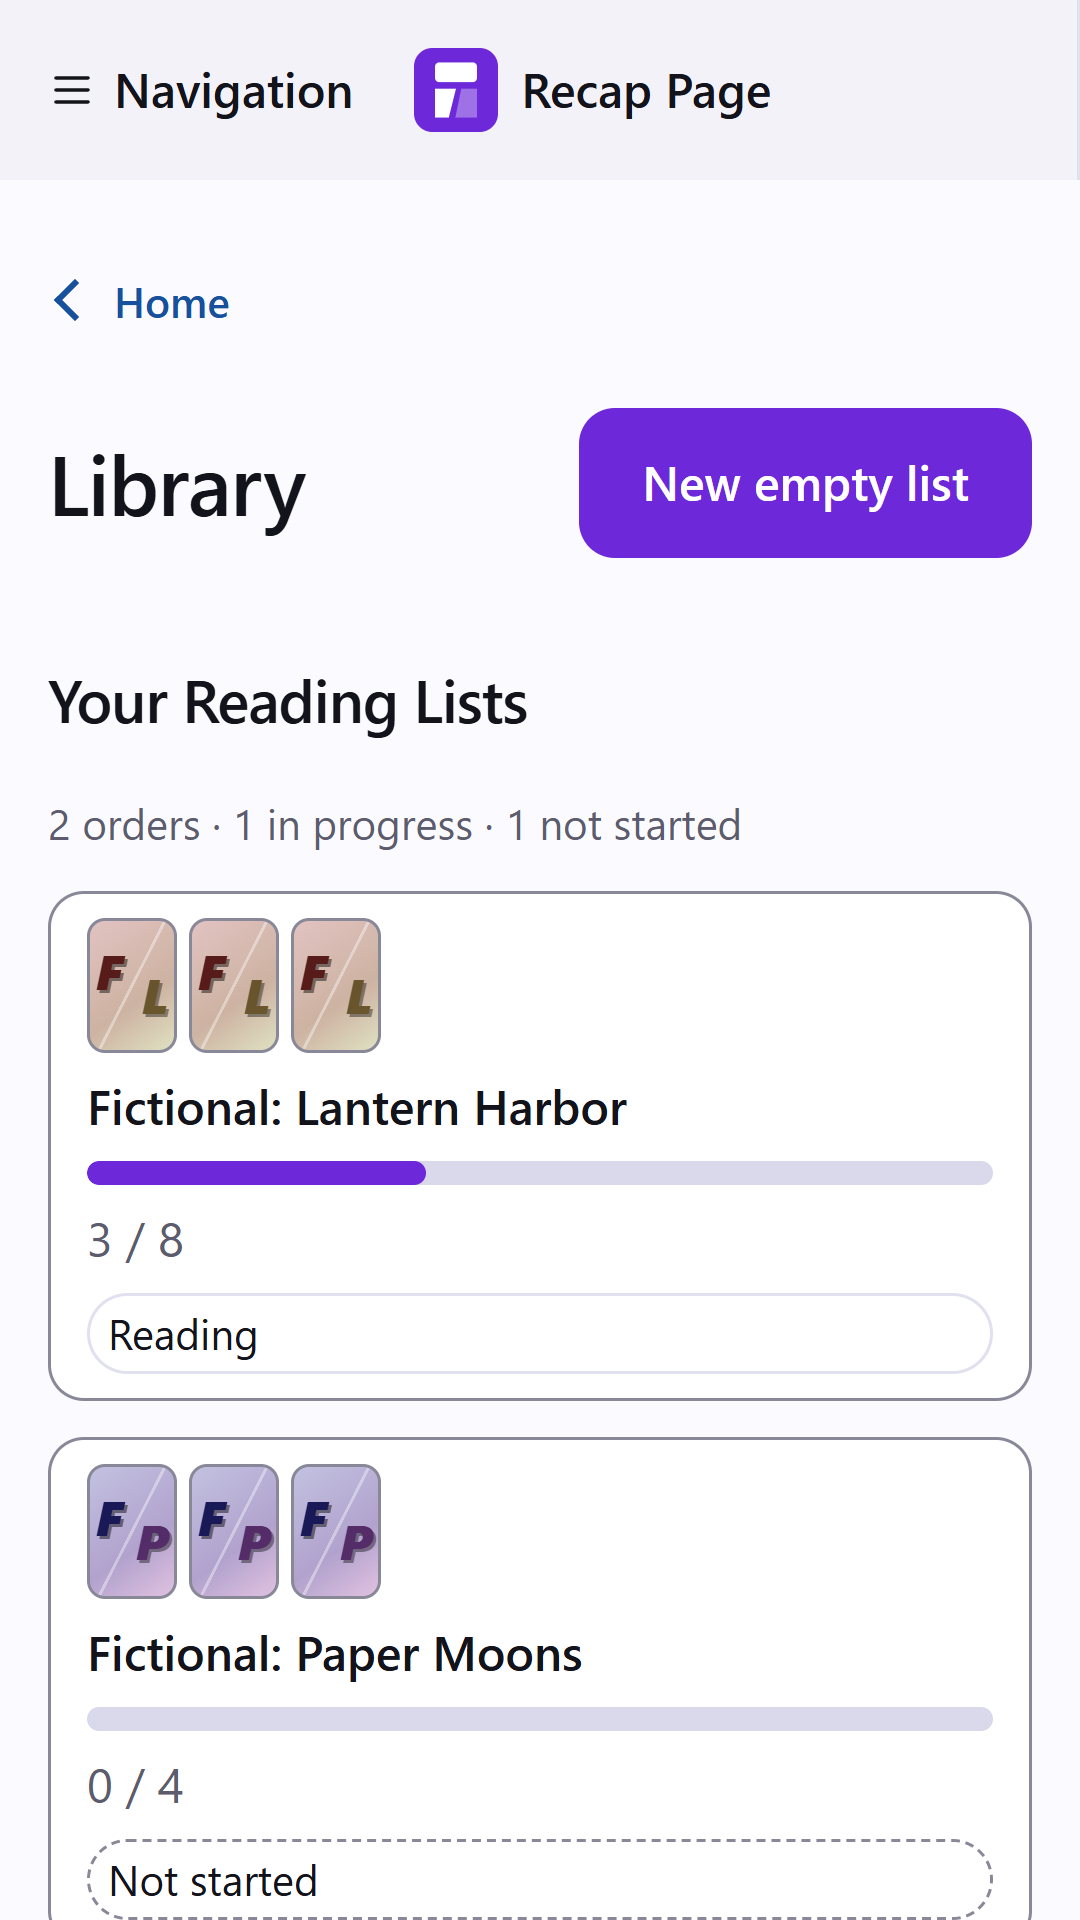
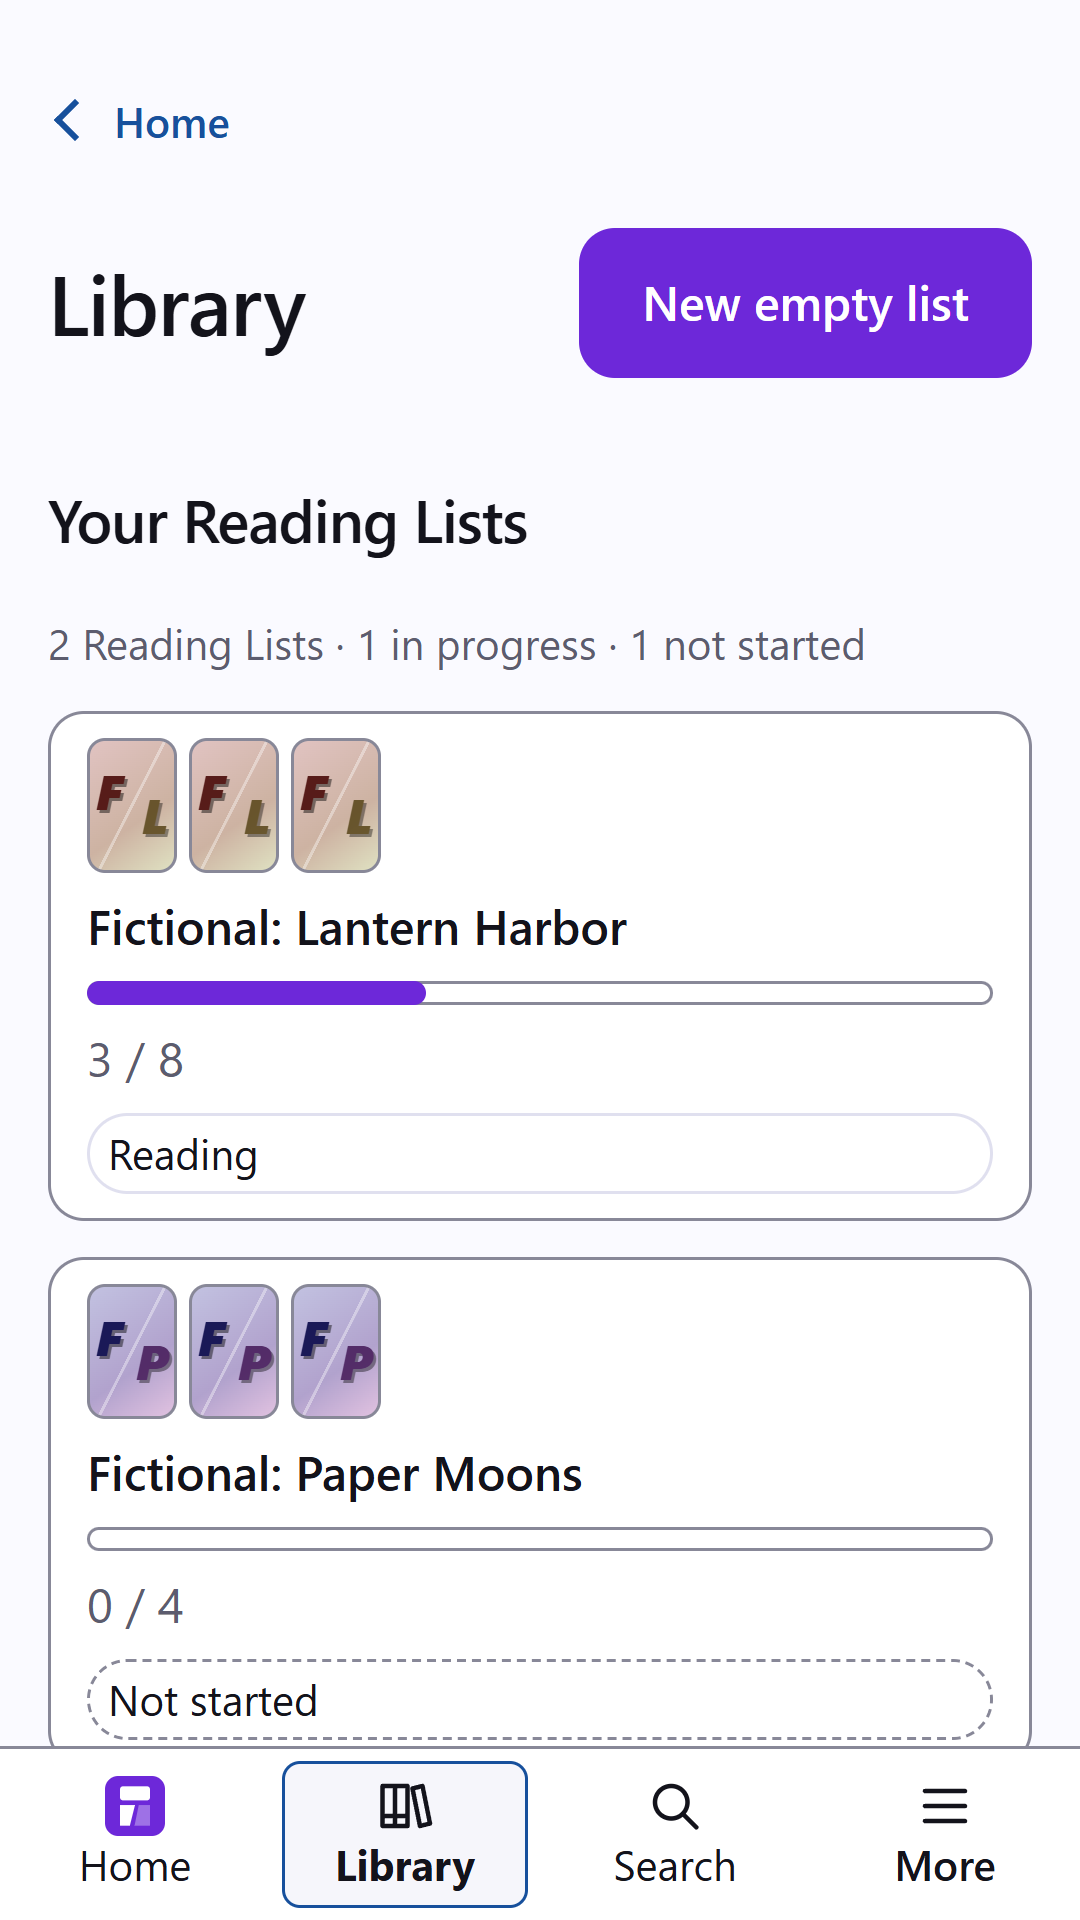
Recapture the project home's Android pictures at the 4.2.0 release (#921)
The project home's two phone pictures showed the app as it was. The reading
one pictured a "Done, next" button and "Inspect issue", where the reading view
now offers Done, About this comic and More comic actions, and the library one
counted "2 orders" rather than "2 Reading Lists".

Both are inspected copies from `npm run play:assets`, run in a clean checkout
of exactly 13d43f14, the 4.2.0 release's merge commit. That release taught the
capture to scroll just past the reading card and back and to wait for every
animation, and its pre-capture audit now requires the bottom navigation to be
on screen and settled. The earlier reading capture caught that bar mid-slide;
both pictures now show it whole.

The provenance record takes the run's source revision and tree, its clean-tree
flag, the generated Android manifest hash, the Edge version, the fixture hash
and each picture's bytes and SHA-256 from the run's own manifest. The method,
viewport, routes, scroll targets and dimensions are unchanged, and each copy
was compared byte for byte with the packet. The alternative text describes
the new pictures; it sits outside the page's word budget, which stays at 800
of 800.

diff --git a/pages/index.html b/pages/index.html
@@ -108,7 +108,7 @@
                 width="1080"
                 height="1920"
                 loading="lazy"
-                alt="Android Library with fictional Lantern Harbor and Paper Moons lists, showing in-progress and not-started states"
+                alt="Android Library with two fictional reading lists, Lantern Harbor at 3 of 8 and Paper Moons not started, above the bottom navigation"
               />
               <figcaption>
                 <strong>Your reading lists.</strong>
@@ -121,7 +121,7 @@
                 width="1080"
                 height="1920"
                 loading="lazy"
-                alt="Android reading view with a fictional next issue, unknown availability, Done, next, Defer for later, and Review earlier issues"
+                alt="Android reading view with a fictional next issue, a Done button, 3 of 8 read, unknown availability, About this comic, and More comic actions, above the bottom navigation"
               />
               <figcaption>
                 <strong>Your next comic.</strong>
